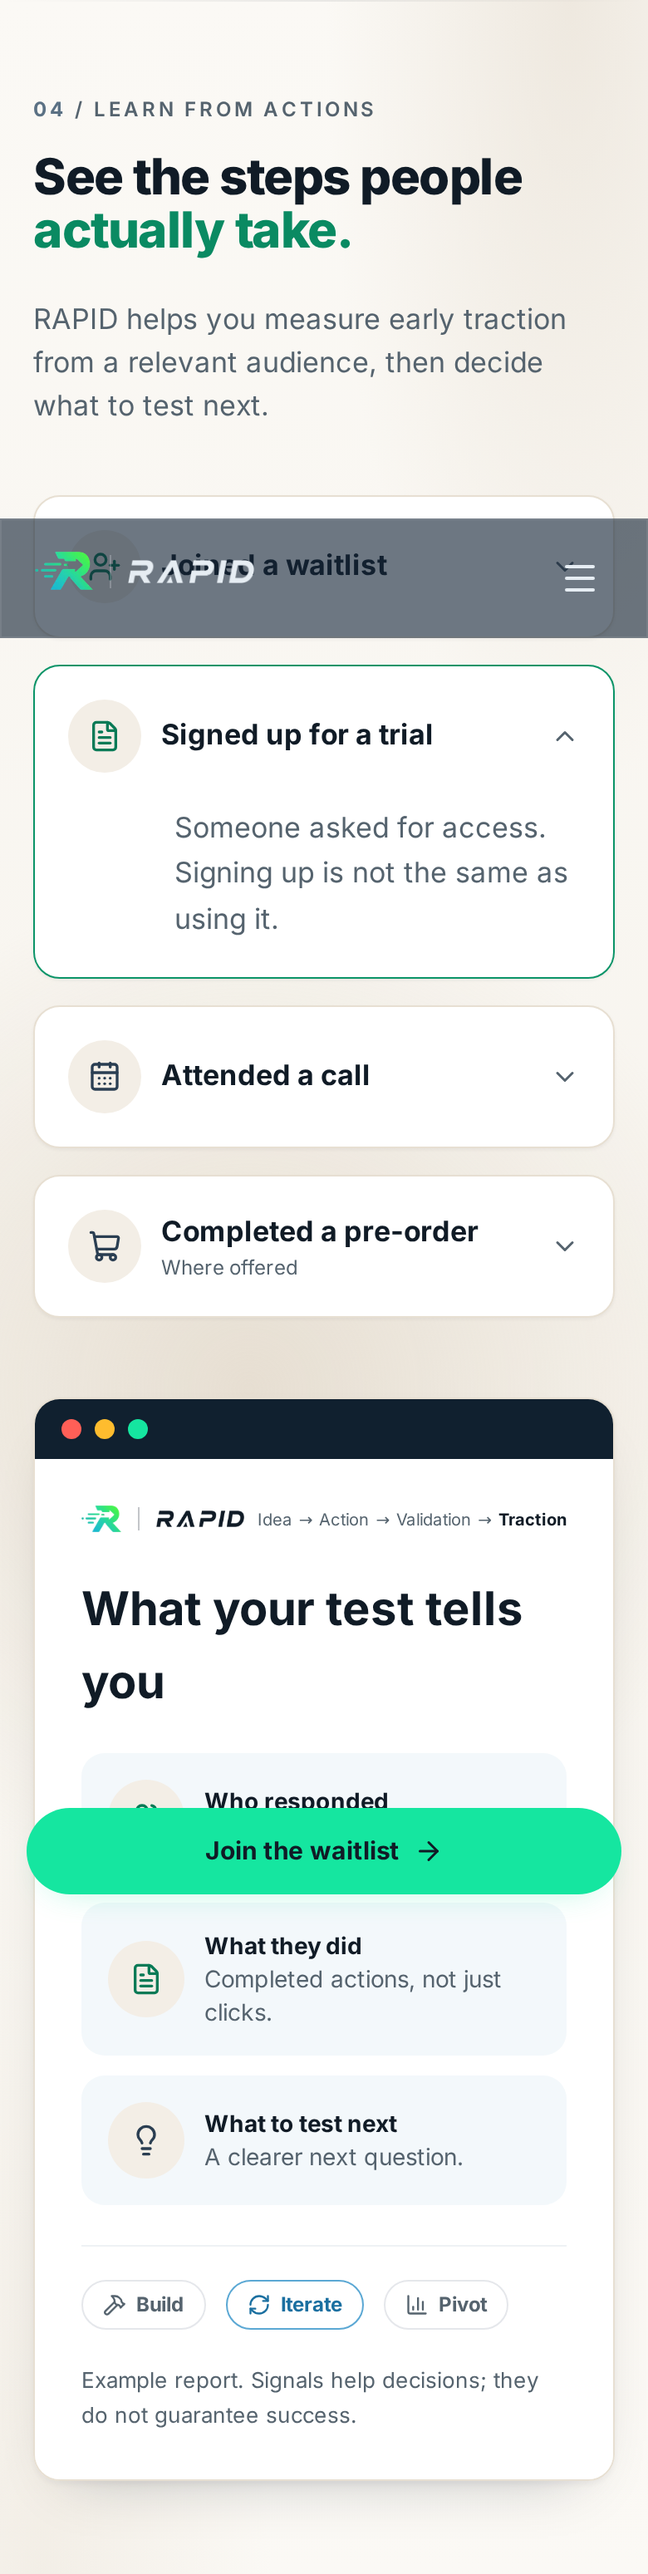
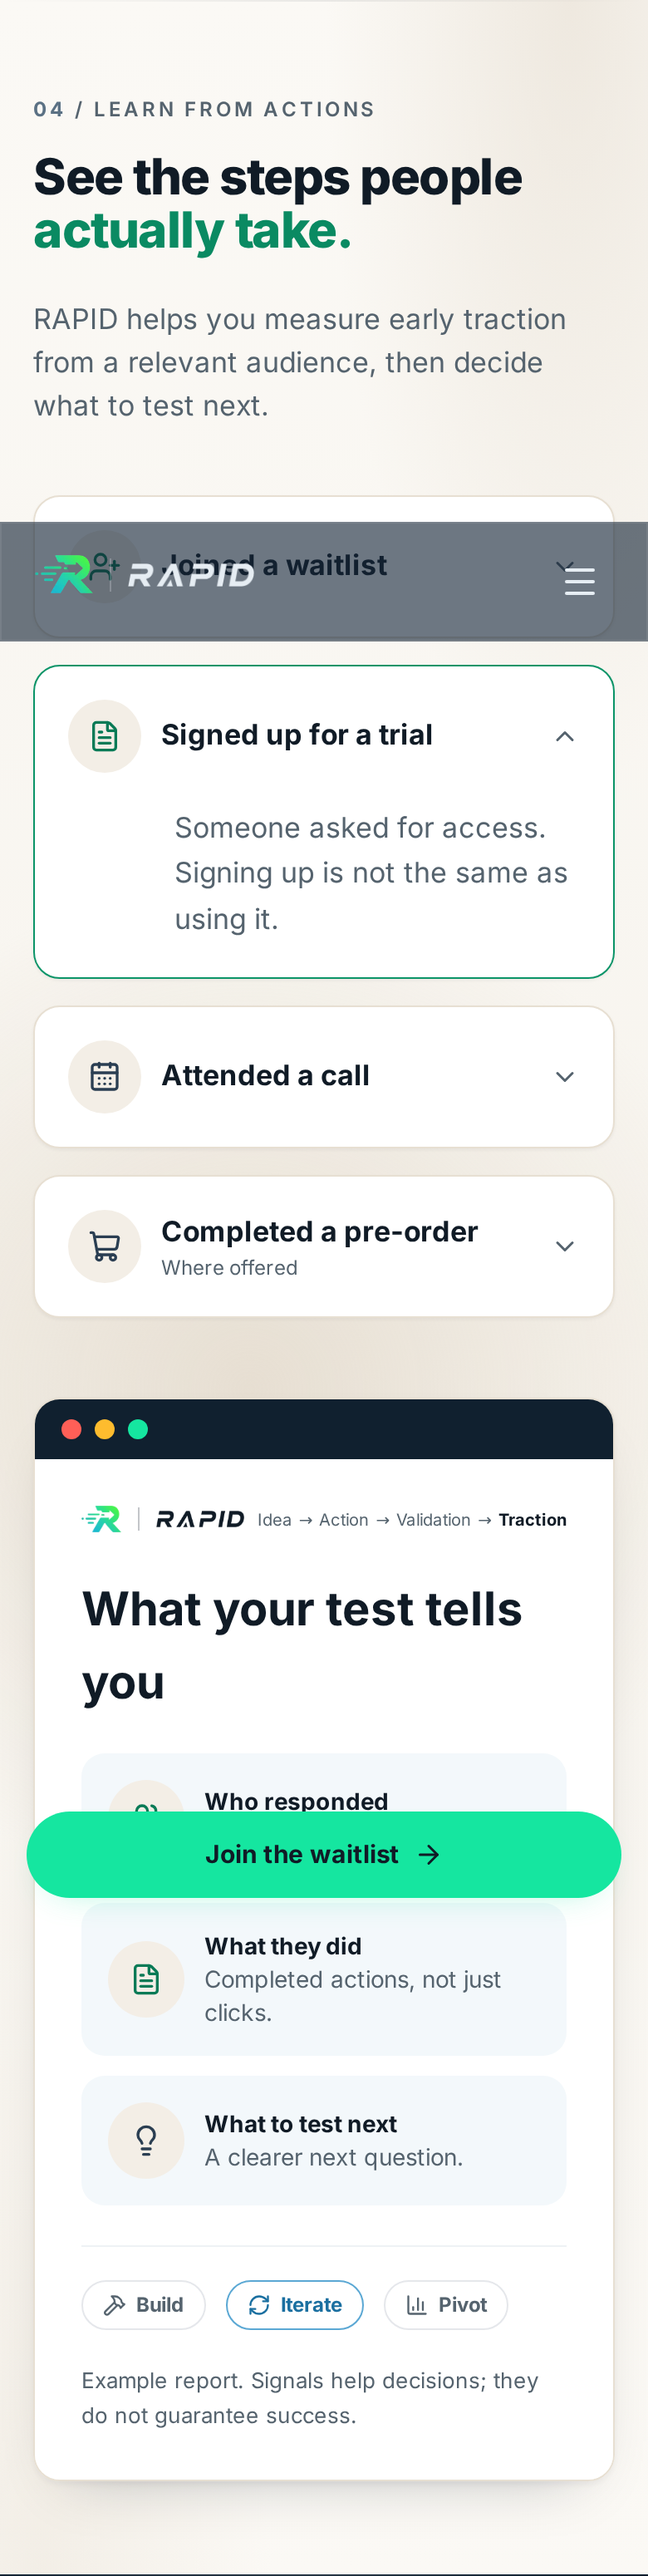
docs: record the interactive role demo pass

diff --git a/NOTES.md b/NOTES.md
@@ -306,3 +306,20 @@ geometry, line-behind-card paint order at both widths, hero connector
 start/touch/end behaviour, accordion open/close height sampling, zero console errors).
 Screenshots in `docs/audit/`. The privacy a11y test now waits for the lazy route to
 render before running axe.
+
+## Interactive role demo — section 05 (2026-09-23)
+
+**Reported**: "Pick a role and try it" wasn't interactive for either role.
+- **Tester panel**: Try it / Book a call / Collaborate now drive the right panel —
+  idle prompt → action preview → success state (sample slot picker for calls; every
+  success carries "demo only, nothing was sent/booked" copy). The X, Close and
+  "Try another" buttons all return to idle. Active CTA gets a ring + `aria-pressed`.
+- **Founder panel**: each incoming-action row gets accept / pass round buttons
+  (badge + undo replace them when decided), an n/3 handled counter and an
+  all-handled note; "Open sample report" expands the three report details in place
+  and toggles to Close (`aria-expanded`).
+- New strings live in `ROLE_DEMO` (`src/content/copy.ts`); all state is component-
+  local — nothing is sent, booked or stored.
+- **Verified**: `scripts/verify-mobile.mjs` 46/46 (12 new checks click every tester
+  and founder control end-to-end), Playwright 9/9 with 0 axe violations, contrast
+  37/37, `tsc`/`oxlint`/build clean. Screenshot: `docs/audit/role-demo-1440.png`.
